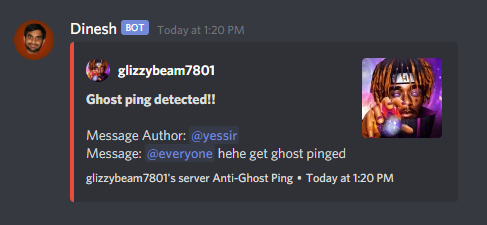
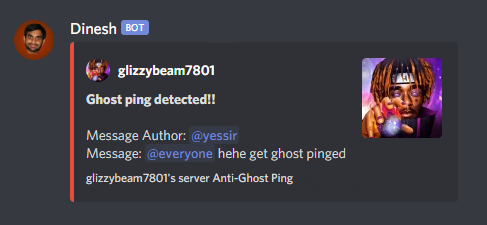
Removed timestamps and added Music div

Changed region(s): [[0.5852, 0.7467, 0.8316, 0.8089], [0.308, 0.0933, 0.5236, 0.1556]]

diff --git a/index.html b/index.html
@@ -137,7 +137,7 @@
 			</div>
 			<div class="col-xl-1"></div>
 		</div>
-		<div class="row align-items-center align-items-lg-start", style = "margin-top: 130px; margin-bottom: 40px;">
+		<div class="row align-items-center align-items-lg-start", style = "margin-top: 130px">
 			<div class="col-xl-1"></div>
 			<div class="col-lg-5 col-md-7" data-aos-duration="600" data-aos="fade-down" data-aos-delay="0">
 				<h2 class="mt-20 mb-30 small">Anti-Ghost Ping</h2>
@@ -152,6 +152,22 @@
 			<div class="col-lg-5 col-md-4" data-aos-duration="600" data-aos="fade-down" data-aos-delay="300">
 				<img srcset="i/antighostping1.png" src="i/antighostping1.png" class="img" alt="" style="border-radius: 30px 30px 30px 30px"/>			
 			</div>
+		</div>
+		<div class="mt-75 row justify-content-center justify-content-md-between align-items-end align-items-lg-start flex-row-reverse row2", style="margin-bottom: 50px;">
+			<div class="col-xl-1"></div>
+			<div class="col-lg-5 col-md-6 pb-60 pb-lg-0 inner2" data-aos-duration="600" data-aos="fade-down" data-aos-delay="0">
+				<h2 class="mt-55 mb-30 small">Music</h2>
+				<div class="f-22 color-heading text-adaptive">
+					Have audio streaming at 320kbps, for free. Supports links and queries.
+				</div>
+				<!-- link to commands list, moderation -->
+				<!-- <a href="#" class="mt-30 btn border-gray color-main"></a> -->
+			</div>
+			<div class="col-md-1"></div>
+			<div class="col-xl-4 col-lg-5 col-md-5 col-sm-6 col-8" data-aos-duration="600" data-aos="fade-down" data-aos-delay="300">
+				<img srcset="i/music1.png" src="i/music1.png" class="img-fluid img" alt="" style="margin-top: 70px; border-radius: 30px 30px 30px 30px;">			
+			</div>
+			<div class="col-xl-1"></div>
 		</div>
 	</div>
 </section>
@@ -195,7 +211,7 @@
 						<div class="col-lg-3 col-md-5 col-sm-6" data-aos-duration="600" data-aos="fade-down" data-aos-delay="600">
 				<div class="mx-auto mb-30 mw-270 h-160 d-flex justify-content-center align-items-center radius6 block">
 					<!-- <img srcset="i/content_37_logo_5@2x.png 2x" src="i/content_37_logo_5.png" alt="" /> -->
-					<h3>Fun Commands</h3>
+					<h3>Fun & Games</h3>
 				</div>
 			</div>
 						<div class="col-lg-3 col-md-5 col-sm-6" data-aos-duration="600" data-aos="fade-down" data-aos-delay="750">
@@ -213,10 +229,10 @@
 						<div class="col-lg-3 col-md-5 col-sm-6" data-aos-duration="600" data-aos="fade-down" data-aos-delay="1050">
 				<div class="mx-auto mb-30 mw-270 h-160 d-flex justify-content-center align-items-center radius6 block">
 					<!-- <img srcset="i/content_37_logo_8@2x.png 2x" src="i/content_37_logo_8.png" alt="" /> -->
-					<h3>Games</h3>
+					<h3>Music</h3>
 				</div>
 			</div>
-					</div>
+		</div>
 	</div>
 </section>
 
